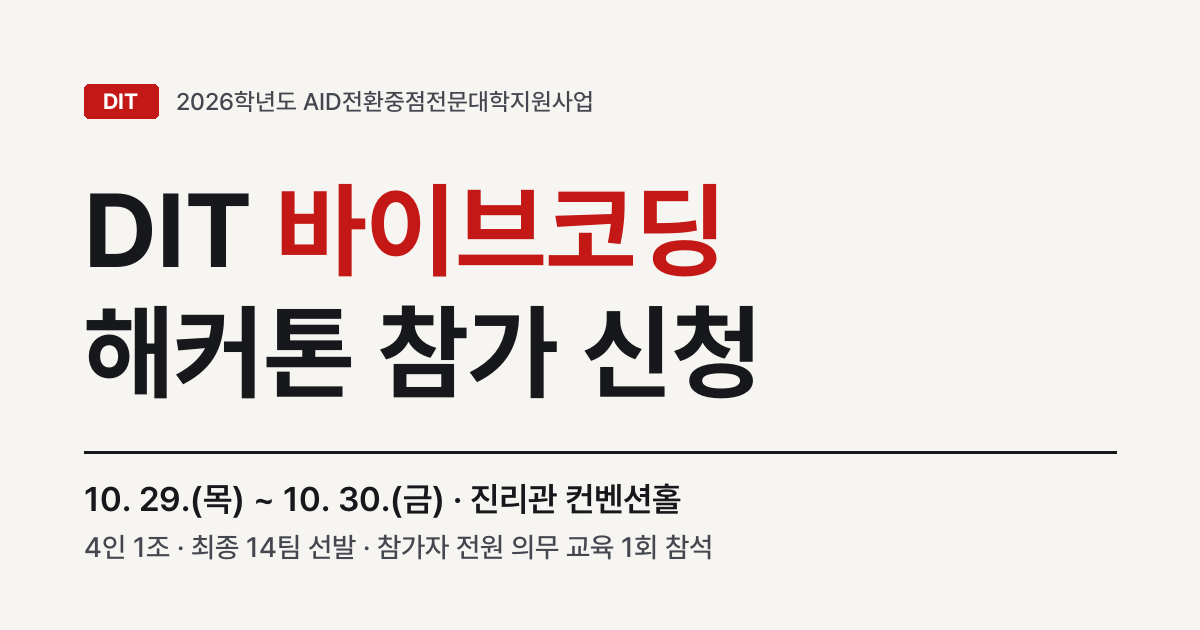
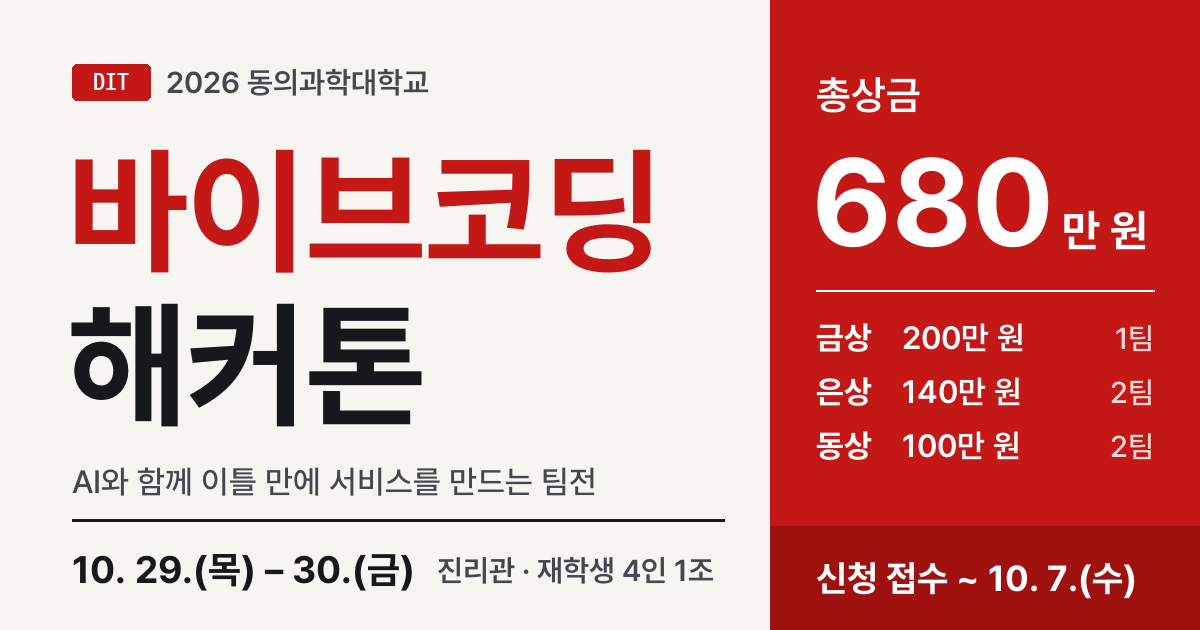
배포 2026-09-29 11:12 KST

diff --git a/index.html b/index.html
@@ -10,10 +10,16 @@
 <meta name="theme-color" content="#f6f5f1">
 <link rel="canonical" href="https://skyman200.github.io/vibe/">
 <meta property="og:type" content="website">
+<meta property="og:site_name" content="동의과학대학교 DIT AI허브센터">
+<meta property="og:locale" content="ko_KR">
 <meta property="og:url" content="https://skyman200.github.io/vibe/">
 <meta property="og:title" content="DIT 바이브코딩 해커톤 2026 — 참가 신청">
-<meta property="og:description" content="10. 29.(목) ~ 10. 30.(금) 진리관 컨벤션홀 · 4인 1조 · 최종 14팀 선발">
-<meta property="og:image" content="https://skyman200.github.io/vibe/og.png">
+<meta property="og:description" content="총상금 680만 원 · 10. 29.(목)~30.(금) 진리관 · 재학생 4인 1조 · 신청 접수 ~10. 7.(수)">
+<meta property="og:image" content="https://skyman200.github.io/vibe/og.png?v=20260929">
+<meta property="og:image:width" content="1200">
+<meta property="og:image:height" content="630">
+<meta property="og:image:alt" content="DIT 바이브코딩 해커톤 — 총상금 680만 원, 10월 29일~30일, 신청 접수 10월 7일까지">
+<meta name="twitter:card" content="summary_large_image">
 <meta name="robots" content="noindex">
 <link rel="icon" href="assets/favicon.svg" type="image/svg+xml">
 <link rel="preconnect" href="https://cdn.jsdelivr.net" crossorigin>
